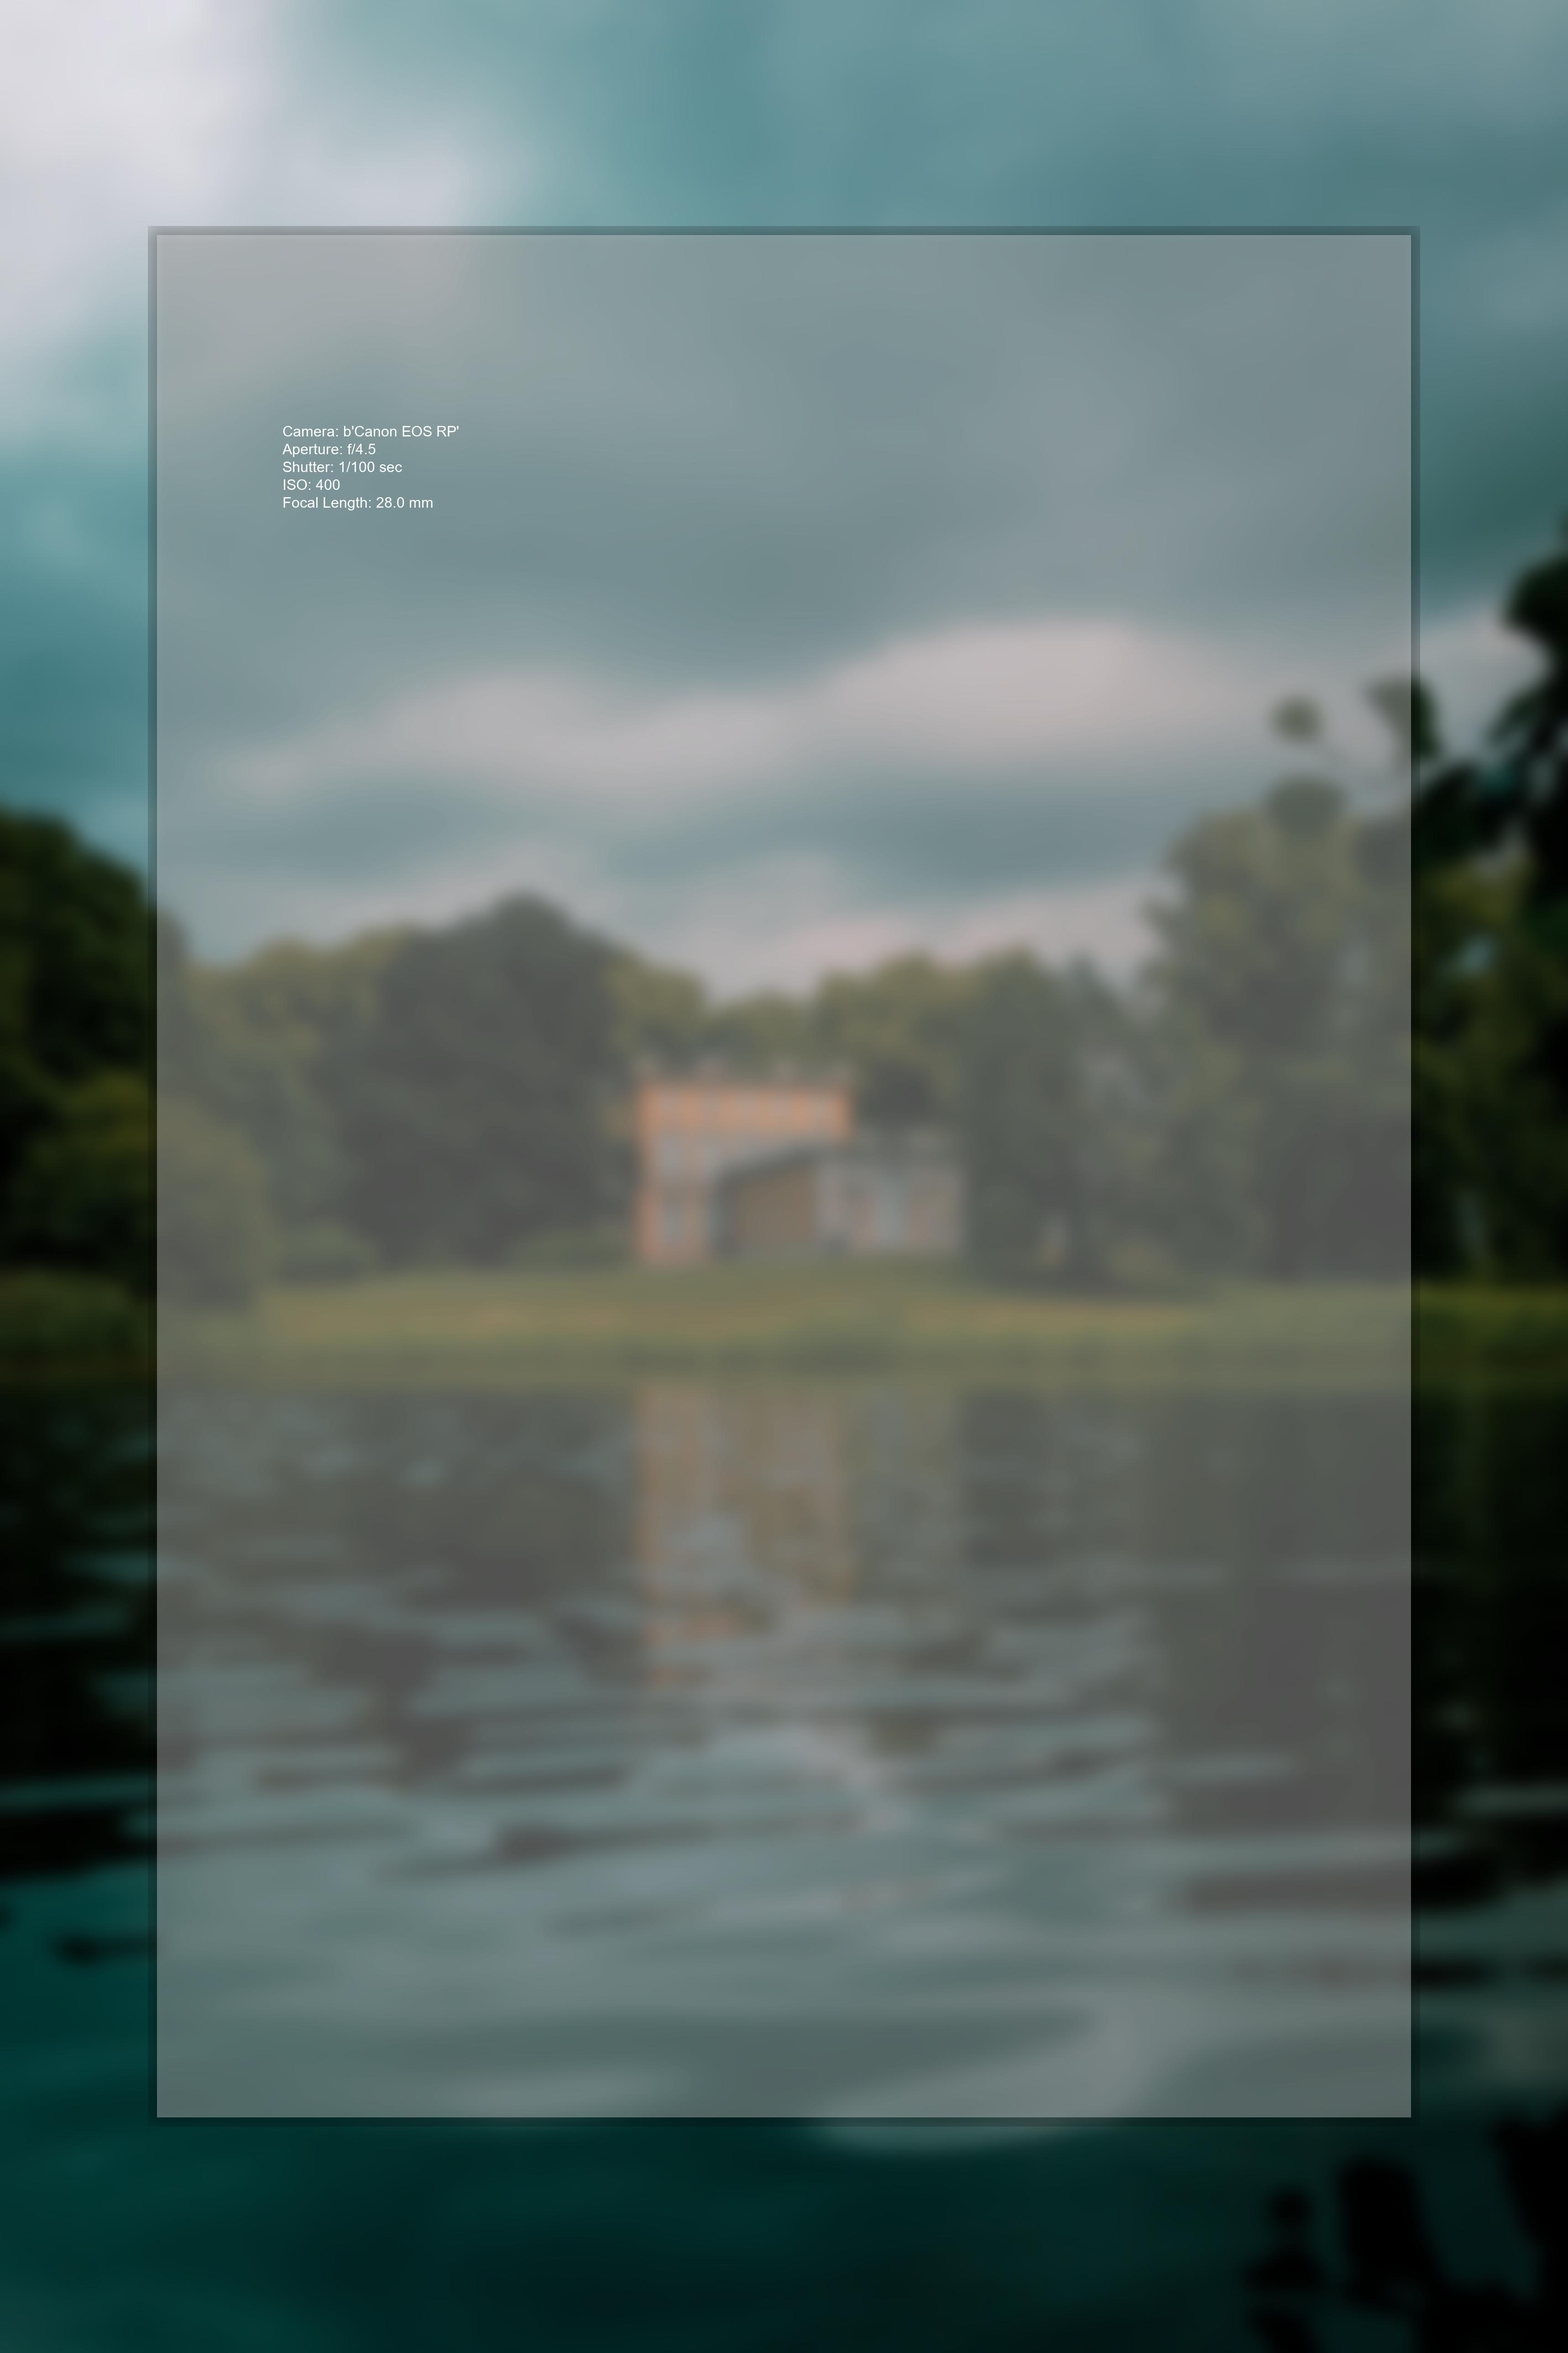
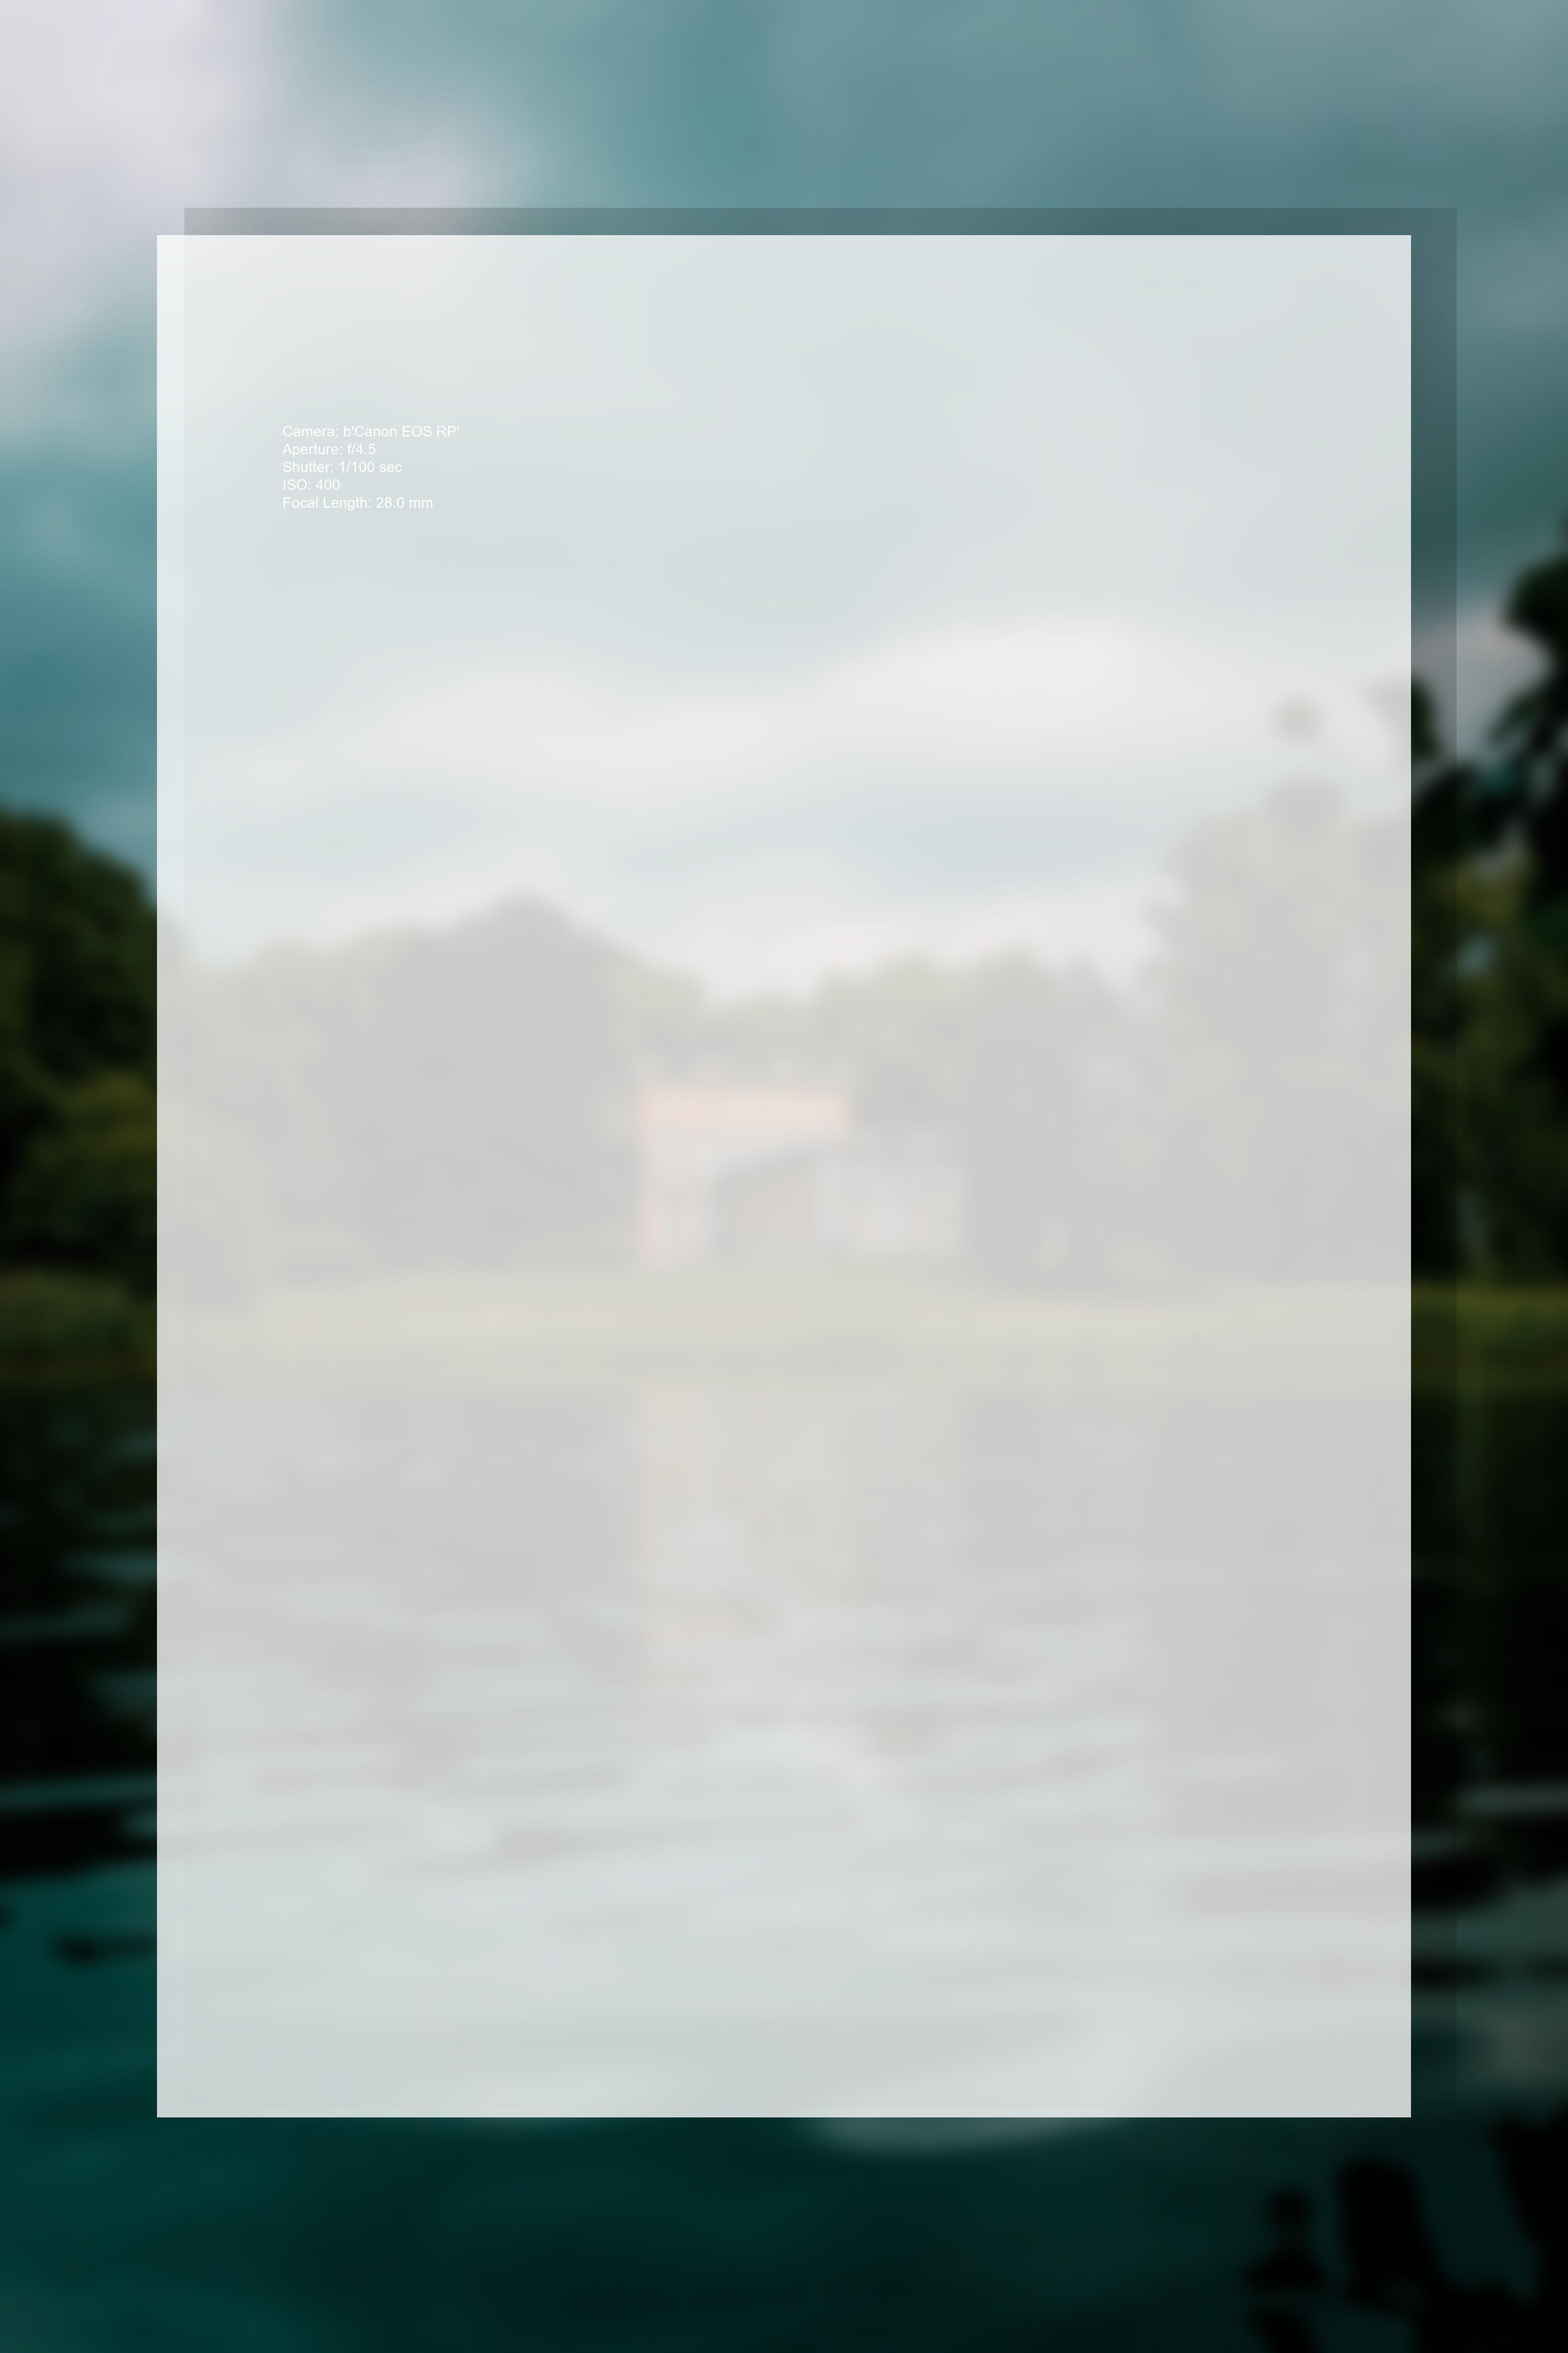
Configuration

diff --git a/test2.py b/test2.py
@@ -67,15 +67,15 @@ shadow_draw = ImageDraw.Draw(shadow)
 # Draw shadow with blur effect
 shadow_draw.rectangle(
     [(5, 5), (panel_width + 35, panel_height + 35)],
-    fill=(0, 0, 0, 80)
+    fill=(0, 0, 0, 60)
 )
 # Blur the shadow
-shadow = shadow.filter(ImageFilter.GaussianBlur(radius=15))
+shadow = shadow.filter(ImageFilter.GaussianBlur(radius=100))
 # Paste shadow
-blurred.paste(shadow, (panel_x - 20, panel_y - 20), shadow)
+blurred.paste(shadow, (panel_x + 60, panel_y - 60), shadow)
 
 # Glass effect: semi-transparent white rectangle
-glass_panel = Image.new("RGBA", (panel_width, panel_height), (255, 255, 255, 80))
+glass_panel = Image.new("RGBA", (panel_width, panel_height), (255, 255, 255, 200))
 blurred.paste(glass_panel, (panel_x, panel_y), glass_panel)
 
 # -------------------------
